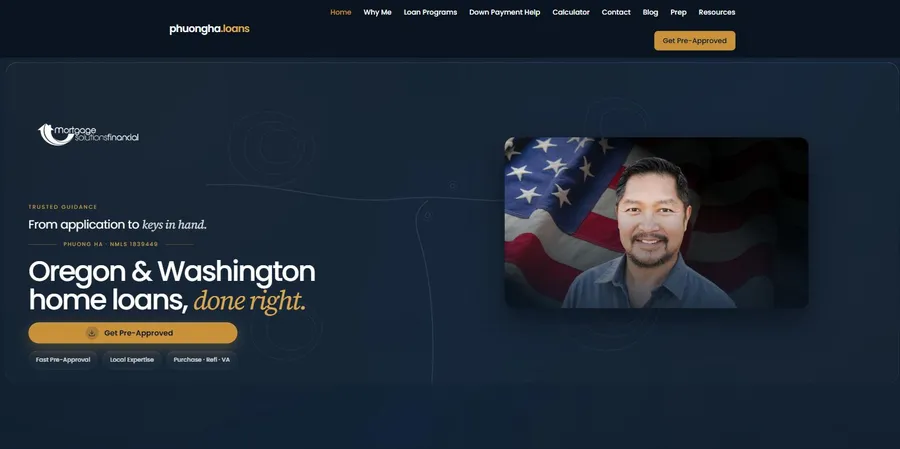
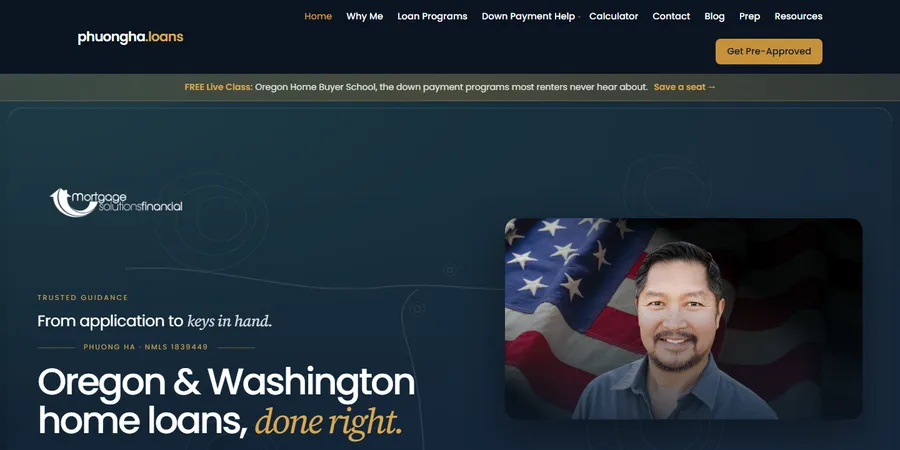
Refresh clients page: new order, Eel Sallad and Brett Parker, updated cards and screenshots
Amore first, Phuong Ha second. Diamond Bond copy reflects the rebuild;
Phuong Ha card reflects the down payment help hub. Fresh screenshots of
every live site.

diff --git a/app/clients/page.tsx b/app/clients/page.tsx
@@ -26,7 +26,7 @@ type Client = {
 const clients: Client[] = [
   {
     name: 'Amore Coordination',
-    industry: 'Wedding & Event Coordination',
+    industry: 'Wedding & Event Planning',
     location: 'Portland, OR & SW Washington',
     summary:
       'Amy Elizabeth Ha has coordinated over 230 weddings in a decade-plus career. We built her a site that carries that experience the way she does in person — warm, personal, and welcoming to couples and families of every background — with inquiry flows that turn browsing couples into booked consultations.',
@@ -34,10 +34,40 @@ const clients: Client[] = [
       'Custom website design & build',
       'Inquiry & consultation capture',
       'Wedding-market local SEO',
-      'Mobile-first, fast-loading pages',
+      'Journal & portfolio pages',
     ],
     thumb: '/images/client-amore.webp',
     href: 'https://amorecoordination.com',
+  },
+  {
+    name: 'Phuong Ha — Mortgage Lending',
+    industry: 'Mortgage / Home Loans',
+    location: 'Oregon & Washington',
+    summary:
+      'A licensed loan originator competing against national lenders with ten-figure ad budgets. We built a conversion-focused site around fast pre-approvals and the questions buyers actually ask — loan programs, down payment help, and what they can afford — with a free home buyer class to start the conversation.',
+    work: [
+      'Conversion-focused website',
+      'Loan program & down payment help pages',
+      'Pre-approval lead capture',
+      'Buyer quiz, calculator & class sign-up',
+    ],
+    thumb: '/images/client-phuongha.webp',
+    href: 'https://phuongha.loans',
+  },
+  {
+    name: 'Diamond Bond Oregon',
+    industry: 'Shower Glass & Stone Protection',
+    location: 'Lake Oswego, OR — Portland/Vancouver',
+    summary:
+      'Twenty-five years of sealing and restoring shower glass, granite, marble, tile, and porcelain for homeowners, builders, and commercial clients. We rebuilt their site from the ground up as a fast static site that explains a technical service in plain language, kept every old link working, and made the free estimate one tap away.',
+    work: [
+      'Full site rebuild',
+      'Service & application pages',
+      'Free-estimate lead capture',
+      'Old URLs redirected to protect rankings',
+    ],
+    thumb: '/images/client-diamondbond.webp',
+    href: 'https://diamondbondoregon.com',
   },
   {
     name: 'La Fondita',
@@ -56,34 +86,34 @@ const clients: Client[] = [
     tag: 'Pro Bono',
   },
   {
-    name: 'Diamond Bond Oregon',
-    industry: 'Stone & Glass Surface Protection',
-    location: 'Lake Oswego, OR — Portland/Vancouver',
+    name: 'Eel Sallad',
+    industry: 'Band — Pacific Northwest GrungeGrass',
+    location: 'Portland, OR',
     summary:
-      'Twenty-five years of hands-on experience sealing shower glass, granite, marble, natural stone, and tile for homeowners and commercial clients. We built a site that explains a technical service in plain language and turns quote-shoppers into booked jobs.',
+      'Dallas Lee started Eel Sallad in 2020, and the sound blends blues, grunge, rock, Americana, and folk. We built the band a home base that puts the new album front and center, with streaming links, live videos, shows, a photo gallery, and a direct line for booking.',
     work: [
-      'Custom website design & build',
-      'Service-page SEO',
-      'Quote request & lead capture',
-      'Residential + commercial positioning',
+      'Band website design & build',
+      'Album & streaming links',
+      'Live video & photo gallery',
+      'Booking inquiries',
     ],
-    thumb: '/images/client-diamondbond.webp',
-    href: 'https://diamondbondoregon.com',
+    thumb: '/images/client-eelsallad.webp',
+    href: 'https://eelsallad.com',
   },
   {
-    name: 'Phuong Ha — Mortgage Lending',
-    industry: 'Mortgage / Home Loans',
-    location: 'Oregon & Washington',
+    name: 'Brett Parker',
+    industry: 'Charcoal Artist',
+    location: 'Eastern Oregon',
     summary:
-      'A licensed loan originator competing against national lenders with ten-figure ad budgets. We built a conversion-focused site around fast pre-approvals and the loan programs borrowers actually search for — purchase, refinance, FHA, VA, and jumbo.',
+      'A self-taught artist drawing realistic wildlife, horses, pets, and portraits in charcoal, in black and white and in color. We built a gallery that lets the work speak, with shop links to his Etsy store for originals and prints, and a simple way to request a commission.',
     work: [
-      'Conversion-focused website',
-      'Loan program landing pages',
-      'Pre-approval lead capture',
-      'Statewide local SEO',
+      'Portfolio gallery website',
+      'Etsy-linked shop for originals & prints',
+      'Commission inquiries',
+      'Catalog with medium, size & availability',
     ],
-    thumb: '/images/client-phuongha.webp',
-    href: 'https://phuongha.loans',
+    thumb: '/images/client-brettparker.webp',
+    href: 'https://brettparkerartist.com',
   },
   {
     name: '10 Deadliest Disasters',
